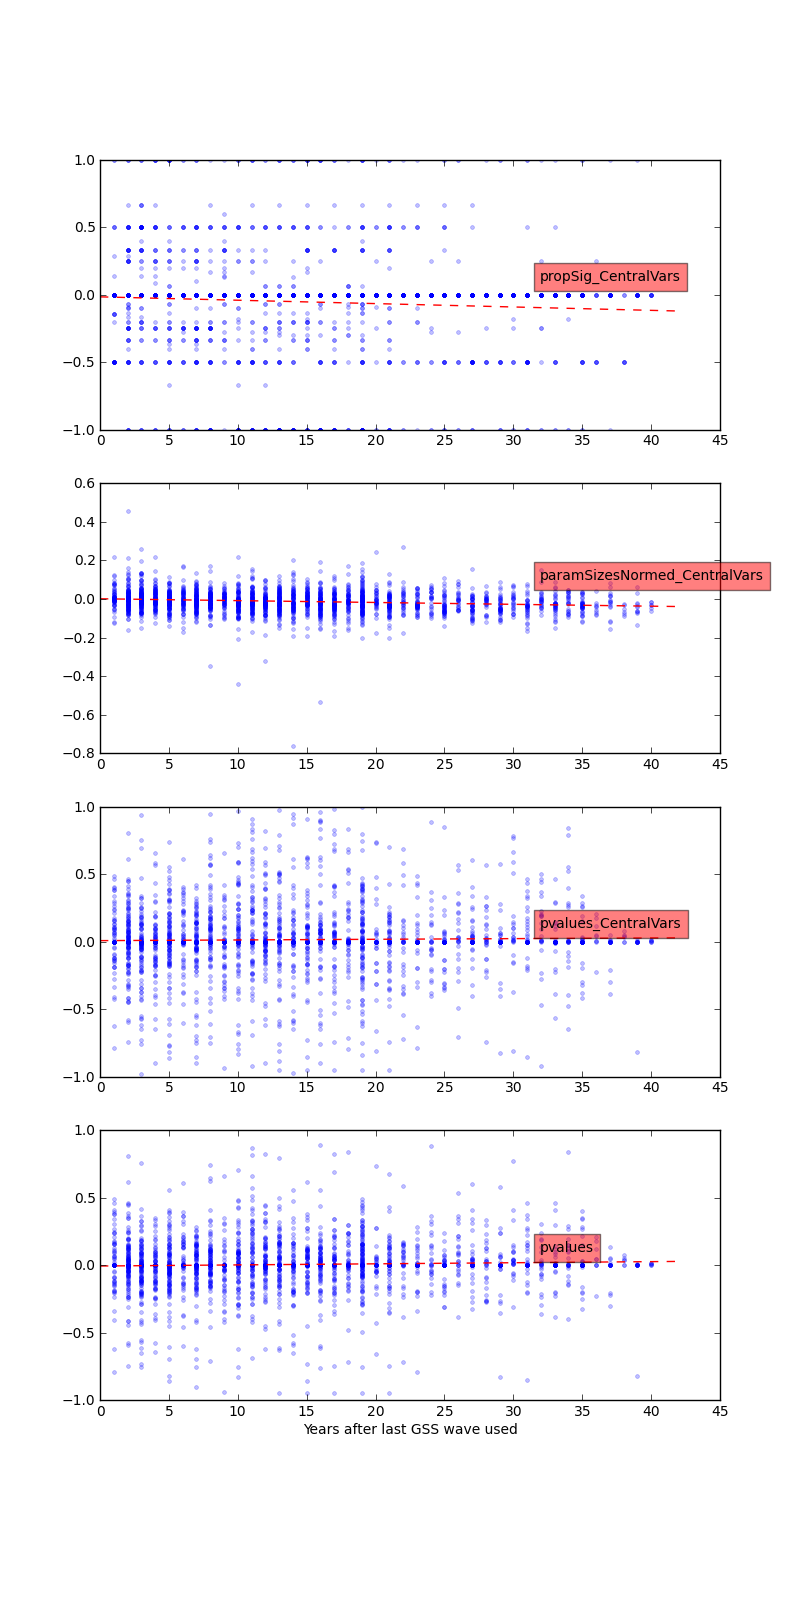
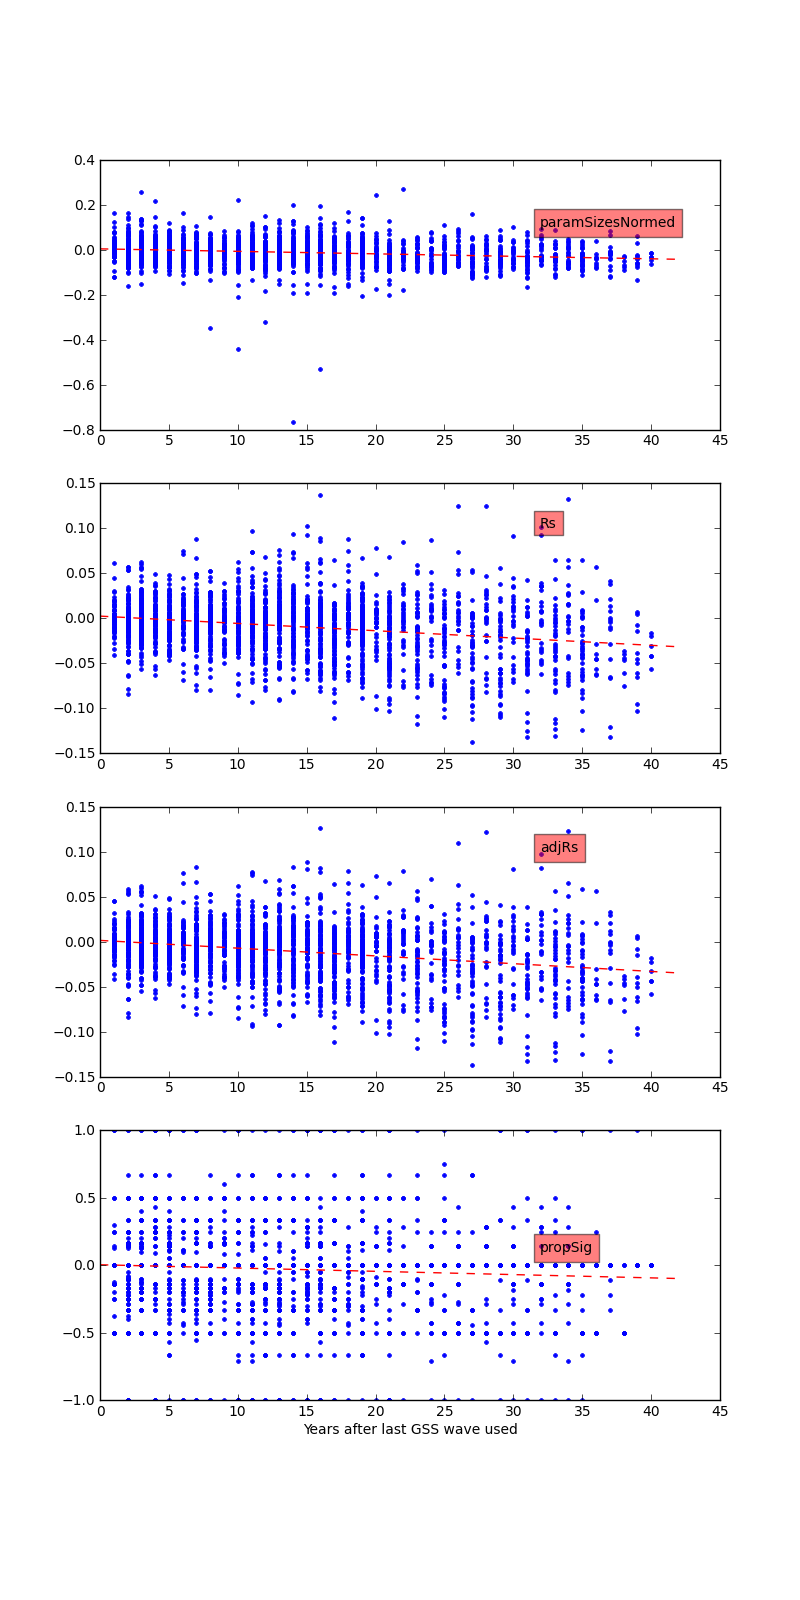
code before I make GSSFunctions separate module

diff --git a/minianalysis_cognate_variables/cognateVariablesAnalysis_model_unit_of_analysis.py b/minianalysis_cognate_variables/cognateVariablesAnalysis_model_unit_of_analysis.py
@@ -50,13 +50,17 @@ YEAR_INDICES = cp.load(open(pathToData + 'YEAR_INDICES.pickle'))
 VAR_INDICES = cp.load(open(pathToData + 'VAR_INDICES_binary.pickle', 'rb'))
 articleClasses = cp.load(open(pathToData + 'articleClasses.pickle', 'rb'))
 dictOfVariableGroups = cp.load(open(pathToData + 'dictOfVariableGroups.pickle'))
+variableTypes = cp.load(open(pathToData + 'variableTypes.pickle'))
 
-# load GSS data
-GSSFilename = 'GSS Dataset/GSS7212_R2.sav'
-data = srw.SavReader(pathToData + GSSFilename)
-df = pd.DataFrame(data.all(), index=data[:,0], columns=ALL_VARIABLE_NAMES)
-with data:  # this makes sure the file will be closed, memory cleaned up after the program is run
-    data = np.array(data.all()) # this makes sure the entire dataset is loaded into RAM, which makes accessing much faster
+'''
+'''
+# load GSS data, ~350megs, ~20 mins to load
+#pathToDf = 'C:\Users\Misha\Dropbox\GSS Project\Data/GSS Dataset/stata/'
+pathToData = '../../Data/'
+pathToDf = '../../Data/GSS Dataset/stata/'
+df = pd.read_stata(pathToDf + 'GSS7212_R4.DTA', convert_categoricals=False)
+df.index = df['year']
+df.columns = map(str.upper, df.columns)
 '''
 
 from collections import defaultdict
@@ -67,7 +71,6 @@ allParamSizesForYearsUsed = []
 allParamSizesForYearsPossible = []
 allRsForYearsUsed, allRsForYearsPossible = [], []
 
-print 'len of articleClasses:', len(articleClasses)
 
 def removeMissingValues(dataMat, axis=0):
     '''
@@ -116,6 +119,38 @@ def removeConstantColumns(design):
     
     return design
     
+    
+def createFormula(design):
+    '''
+    Takes the design matrix (where first column is DV)
+    and creates a formula for Pandas/Statsmodels using the dict ov variableTypes,
+    where I've coded some variables as being categorical (and specified how many levels)
+    some as continuous, and some as DONOTUSE
+    '''
+    
+    formula = 'standardize('+ design.columns[0] +', ddof=1) ~ ' 
+
+    for col in design.columns[1:]: # don't include the DV in the RHS!
+        if col in variableTypes:        
+            varType = variableTypes[col]        
+            # if I previously coded this variable as donotuse, then don't use it            
+            if varType == 'DONOTUSE':
+                return None
+                
+            # otherwise, if the varType is a number (number of levels), dummy-fy it    
+            elif type(varType) == int:
+                if varType > 3: return None
+                else: formula += 'C('+ col + ') + '        
+            
+            # otherwise, the variable is continuous or continuous-like            
+            else: formula += 'standardize('+ col + ', ddof=1) + ' # if it's in the dict, but C or CL
+        
+        # if variable not in the dict, then treat it as continuous
+        else: formula += 'standardize('+ col + ', ddof=1) + ' # if it's not in dict, treat it as C
+
+    return formula[:-2] # the last 2 characters should be '+ '
+    
+    
 def runModel(year, DV, IVs, controls=[]):
     '''
     inputs:
@@ -127,12 +162,13 @@ def runModel(year, DV, IVs, controls=[]):
       If OLS model estimation was possibely, return results data structure from statsmodels OLS. results contains methods like .summary() and .pvalues
       else: return None 
     '''
+   
     design = df.loc[year, [DV] + IVs + controls].copy(deep=True)  # Need to make a deep copy so that original df isn't changed
     design = removeMissingValues(design) # remove rows with missing observations
     design = removeConstantColumns(design)    
 
-    # if line above removed DV, then can't use this model, return None
-    if not design: return None    
+    # if the line above removed DV column, then can't use this model, return None
+    if design is None or DV not in design: return None    
 
     #need to make sure there are still IVs left after we dropped some above    
     if design.shape[1] < 2: 
@@ -143,13 +179,19 @@ def runModel(year, DV, IVs, controls=[]):
     if design.shape[0] < design.shape[1]: # if number of rows is less than number of columns
         print 'Not enough observations. Skipping...'
         return None
-       
+    
+    '''
     # create formula
     formula = 'standardize('+ DV +', ddof=1) ~ ' 
     for col in design.columns[1:]: # don't include the DV in the RHS!
         formula += 'standardize('+ col + ', ddof=1) + '  # normalize the coefficients. ddof=1 calculates typical sd, while ddof=0 does MLE 
     formula = formula[:-2] # remove the last plus sign
-
+    '''
+    formula = createFormula(design)
+    if not formula: return None
+        
+    print formula
+    
     # calculate the results                                          
     results = smf.ols(formula, data=design, missing='drop').fit() # do I need the missing='drop' part?
 
@@ -252,7 +294,7 @@ def identifyCognates(LHS, cIVs, GSSYearsUsed, corrThreshold):
 ############################################################
 if __name__ == "__main__":    
     
-    tempCognateOutput = open('../Data/tempCognateOutput.txt', 'w')
+    tempCognateOutput = open(pathToData + 'tempCognateOutput.txt', 'w')
     
     # contains for storing (variable, cognate) tuples in order to see what substitutions
     #i'm most commonly making
@@ -268,9 +310,9 @@ if __name__ == "__main__":
             output[group][outcome] = []
             
     
-    articleClasses = filterArticles(articleClasses, GSSYearsUsed=True, GSSYearsPossible=False, centralIVs=True)            
-    for article in random.sample(articleClasses, 50):
-    #for article in articleClasses:
+    articlesToUse = filterArticles(articleClasses, GSSYearsUsed=True, GSSYearsPossible=False, centralIVs=True)            
+    #for article in random.sample(articleClasses, 200):
+    for article in articlesToUse:
     #for article in [a for a in articleClasses if a.articleID == 6755]:
     
         print 'Processing article:', article.articleID
@@ -291,7 +333,7 @@ if __name__ == "__main__":
 
         # let's see if this article is suitable for cognates analysis:
         originalLHS = article.IVs + article.controls
-        identifyCognatesReturns = identifyCognates(originalLHS, article.centralIVs, article.GSSYearsUsed, corrThreshold=0.8)        
+        identifyCognatesReturns = identifyCognates(originalLHS, article.centralIVs, article.GSSYearsUsed, corrThreshold=0.6)        
         if not identifyCognatesReturns: 
             print 'No suitable cognates. Skipping.'            
             continue        

diff --git a/for x-years-into-future mini-analysis/createPlotsOfOutcomeXYearsIntoFuture.py b/for x-years-into-future mini-analysis/createPlotsOfOutcomeXYearsIntoFuture.py
@@ -13,7 +13,7 @@ import matplotlib.pylab as plt
 #fig = pl.figure(figsize=(3,8))
 fig = plt.figure(1, figsize=(8,16))
 results={}
-for i, outcome in enumerate(outcomes[4:]):
+for i, outcome in enumerate(outcomes[:4]):
     
     yearlyDiffs = [np.array(output[year][group2][outcome]) - np.array(output[year][group1][outcome]) for year in years]  
     yerr = [2*np.std(x) for x in yearlyDiffs]
@@ -25,7 +25,7 @@ for i, outcome in enumerate(outcomes[4:]):
             y.append(diffy)    
     
     ax = fig.add_subplot(4, 1, i)
-    ax.plot(x, y, '.', alpha=0.25)
+    ax.plot(x, y, '.', alpha=0.99)
     if i==0:plt.xlabel('Years after last GSS wave used')
    
     ax.text(32, 0.1, outcome, bbox={'facecolor':'red', 'alpha':0.5, 'pad':10})  
